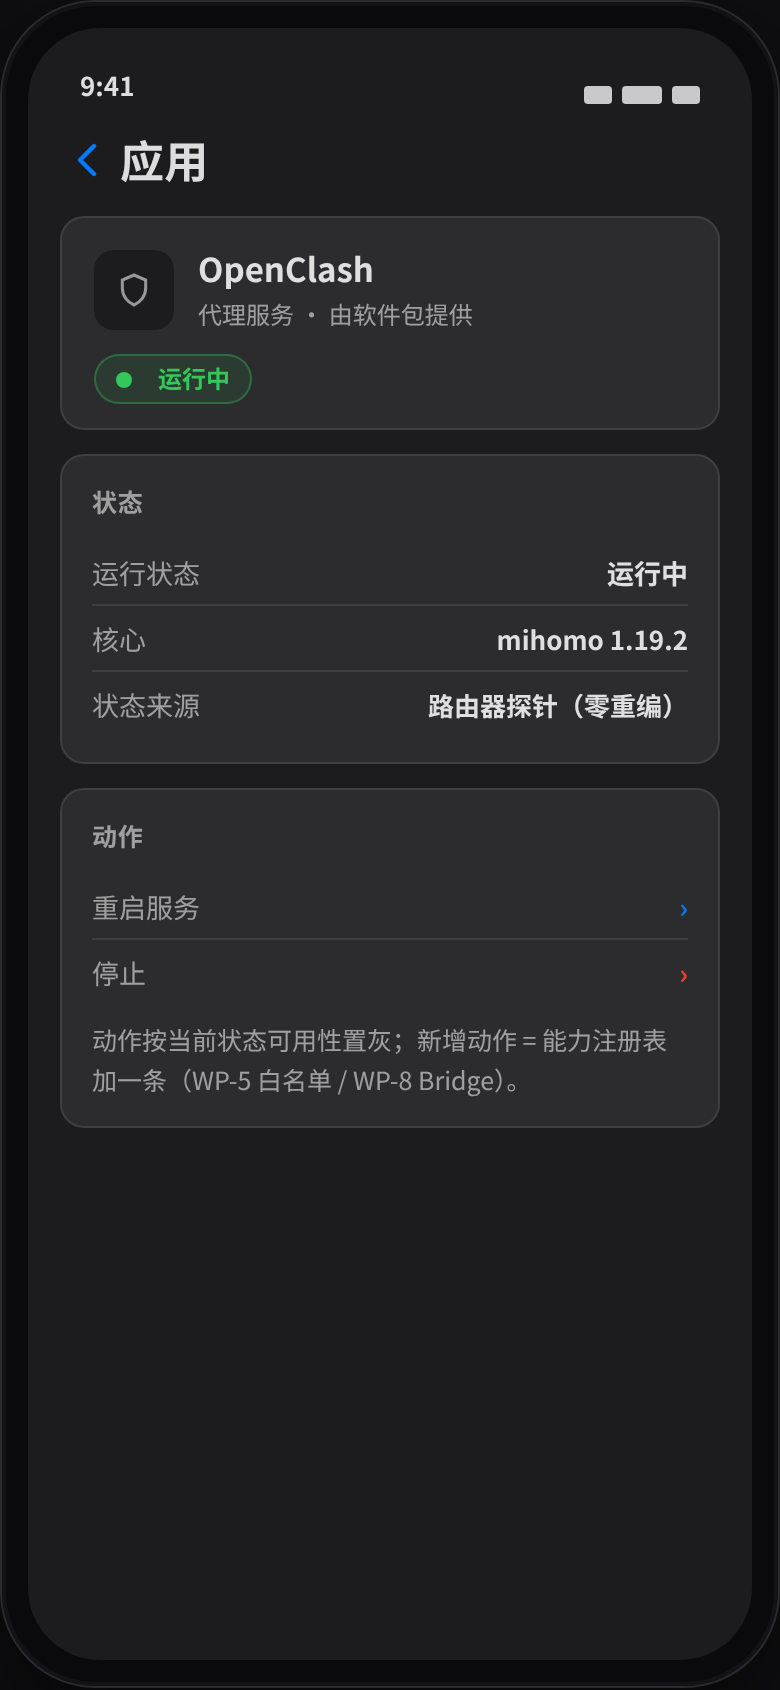
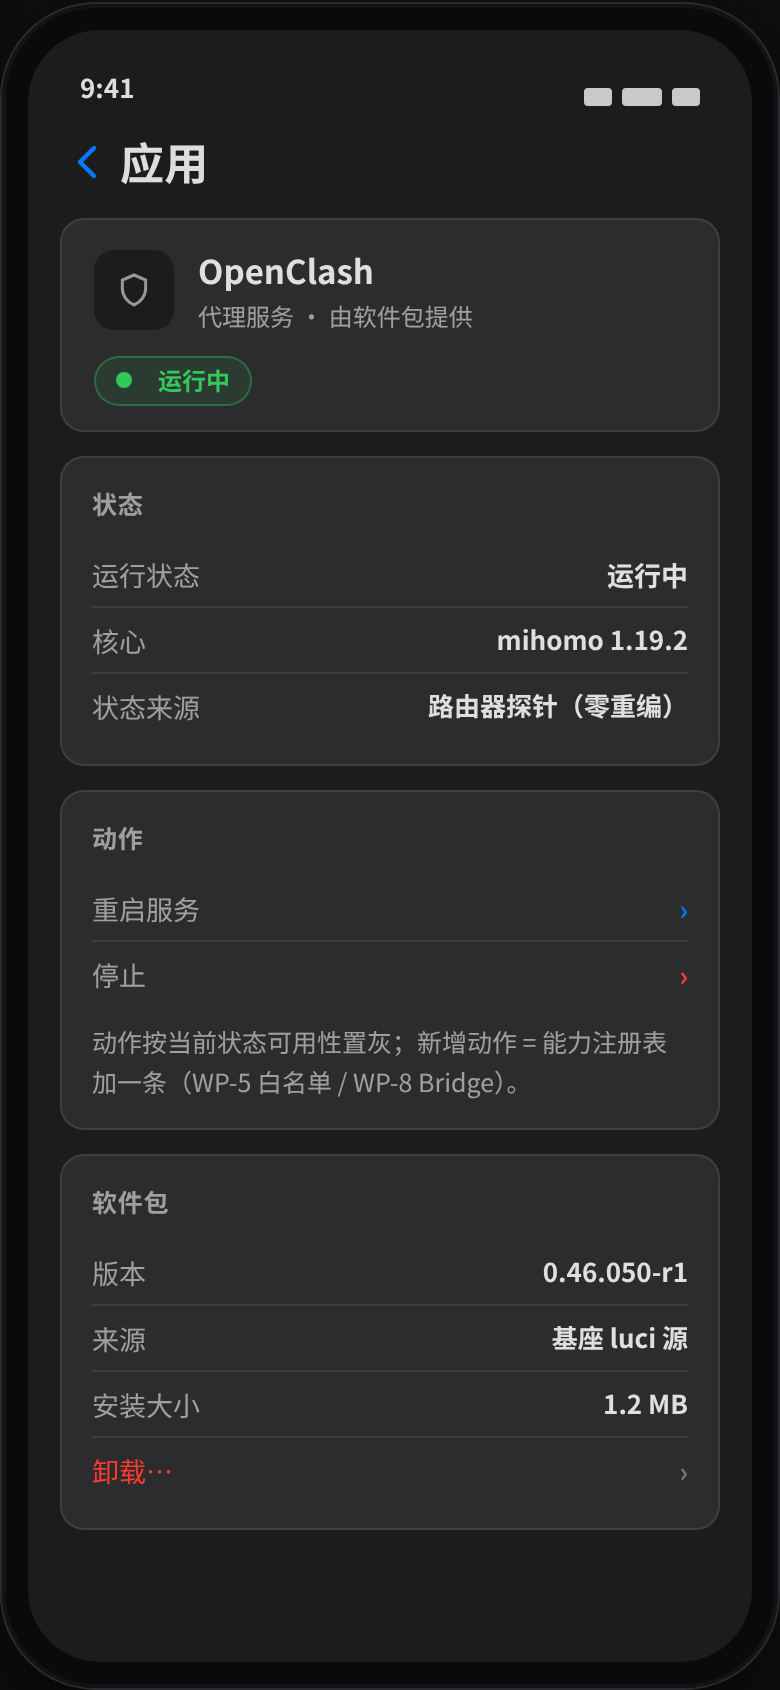
WP-6: 应用 tab 细化（待确认）——⑤应用控制子段 + ⑤b软件包子段（可升级/全部升级/已安装/搜索）+ ⑪详情增软件包卡；UI-DESIGN §5 细化与 WP-5 扩展登记项

diff --git a/design/preview.html b/design/preview.html
@@ -178,12 +178,12 @@ figcaption .hint { display:block; margin-top:4px; color:#8a8a92; font-size:12.3p
 <body>
 
 <div class="pagetop">
-  <h1>QuartzWrt App · UI 预览 <span class="tag">v0.3 定案稿</span><span class="tag">评审确认版</span></h1>
+  <h1>QuartzWrt App · UI 预览 <span class="tag">v0.4</span><span class="tag">应用页细化·评审</span></h1>
   <div class="sub">
-    依据 <b>docs/UI-DESIGN.md v0.3</b>（七项已拍板）——<b>tab 结构：概览 / 网络 / 应用 / 设置</b>（设置内含「系统设置 + 应用设置」两组；
-    第 5 个 tab 位预留给后续功能，当前隐藏）。「对设备本身的控制」归系统设置，「对网络的控制」归网络页。
-    数据取自冻结契约 AGGREGATE-API v1 与 WP-5 接口面；深色为参考稿原生（WP-2 同源 token），浅色同一语义派生。
-    ⑩⑪ 为扩展机制演示屏（通用卡 / 条件卡 / 泛化行 / 动作挂靠）。
+    依据 <b>docs/UI-DESIGN.md</b>（v0.3 定案 IA + 本次应用页细化）。**应用 tab = 应用控制 + 软件包管理**两个子段：
+    「应用」列出已安装且可控制的应用（状态 · 启动/停止/重启 → 详情）；「软件包」管安装面（已安装/可升级/版本/卸载）。
+    数据来自冻结契约 AGGREGATE-API v1 与 WP-5 接口面；<b>软件包列表与升级/卸载属于写操作与新数据面——按扩展模型是加法</b>（WP-5 增读方法 + 动作 id，见各屏脚注）。
+    ⑩⑪ 为扩展机制演示屏。
   </div>
 </div>
 
@@ -397,13 +397,14 @@ figcaption .hint { display:block; margin-top:4px; color:#8a8a92; font-size:12.3p
     </figcaption>
   </figure>
 
-  <!-- ⑤ 应用 -->
+  <!-- ⑤ 应用 · 控制子段 -->
   <figure class="case">
     <div class="phone" data-mode="dark"><div class="screen">
       <div class="statusbar"><span>9:41</span><span class="icons"><i></i><i class="w2"></i><i></i></span></div>
       <div class="appbar"><h3>应用</h3><span class="r">3 个</span></div>
       <div class="content">
-        <p class="sub" style="margin: 0 2px 10px">路由器上安装的软件包（自动发现；新装应用免重启出现）。</p>
+        <div class="seg" style="margin: 0 2px 12px"><span class="on">应用</span><span>软件包</span></div>
+        <p class="sub" style="margin: 0 2px 10px">已安装且支持 App 内控制的应用；点入详情操作。</p>
         <div class="devs">
           <div class="dev">
             <div class="ico"><svg width="20" height="20" viewBox="0 0 24 24" fill="none" stroke="currentColor" stroke-width="1.8" stroke-linecap="round"><path d="M12 3l7 3v5c0 4.4-3 8.4-7 10-4-1.6-7-5.6-7-10V6l7-3z"/></svg></div>
@@ -422,8 +423,8 @@ figcaption .hint { display:block; margin-top:4px; color:#8a8a92; font-size:12.3p
           </div>
         </div>
         <div class="card" style="margin-top:12px">
-          <h4>未安装</h4>
-          <p class="sub">Docker / Tailscale 等安装后将自动出现在上方列表（探针机制，零重编）。</p>
+          <h4>未安装的应用</h4>
+          <p class="sub">Docker / Tailscale 等安装后将自动出现在上方列表（探针机制）。到「软件包」子段可查看与安装。</p>
         </div>
       </div>
       <div class="tabbar">
@@ -433,8 +434,55 @@ figcaption .hint { display:block; margin-top:4px; color:#8a8a92; font-size:12.3p
         <span class="tab"><svg viewBox="0 0 24 24" fill="none" stroke="currentColor" stroke-width="1.9" stroke-linecap="round"><circle cx="12" cy="12" r="3"/><path d="M12 2v3M12 19v3M2 12h3M19 12h3M4.9 4.9l2.1 2.1M17 17l2.1 2.1M19.1 4.9L17 7M7 17l-2.1 2.1"/></svg>设置</span>
       </div>
     </div></div>
-    <figcaption><b>⑤ 应用（安装在路由器上的软件包）</b>
-      <span class="hint">列表 = 快照 services 开放映射（WP-4 探针描述文件驱动）；条目行点进「应用详情」（⑪）做状态/控制。未安装不占位；安装后自动出现。</span>
+    <figcaption><b>⑤ 应用 · 「应用」子段（控制面）</b>
+      <span class="hint">列出已安装且<u>可控制</u>的应用（数据=快照 services 开放映射；控制=WP-5 动作面 service.start/stop/restart——两者都已存在）。行 → 应用详情（⑪）。</span>
+    </figcaption>
+  </figure>
+
+  <!-- ⑤b 应用 · 软件包子段 -->
+  <figure class="case">
+    <div class="phone" data-mode="dark"><div class="screen">
+      <div class="statusbar"><span>9:41</span><span class="icons"><i></i><i class="w2"></i><i></i></span></div>
+      <div class="appbar"><h3>应用</h3><span class="r">335 个</span></div>
+      <div class="content">
+        <div class="seg" style="margin: 0 2px 12px"><span>应用</span><span class="on">软件包</span></div>
+
+        <div class="card">
+          <h4>可升级 · 3</h4>
+          <div class="row"><span class="k">quartz-daemon</span><span class="v" style="font-size:12.5px"><span class="faint mono">0.1.0-r1 →</span> 0.1.1</span></div>
+          <div class="row" style="justify-content:flex-start"><span class="k mono" style="font-size:11.5px">luci 源 · 7.1 MB</span></div>
+          <div class="row"><span class="k">luci-theme-quartz</span><span class="v" style="font-size:12.5px"><span class="faint mono">26.285 →</span> 26.287</span></div>
+          <div class="row" style="justify-content:flex-start"><span class="k mono" style="font-size:11.5px">luci 源 · 412 KB</span></div>
+          <div class="row"><span class="k">luci-app-dashboard</span><span class="v" style="font-size:12.5px"><span class="faint mono">26.285 →</span> 26.287</span></div>
+          <div class="btnrow" style="margin-top:10px">
+            <div class="btn primary" style="padding:10px 0; font-size:14px">全部升级（3）</div>
+          </div>
+          <p class="sub" style="margin-top:8px">升级经 WP-5 动作面（服务端逐包执行 + 审计）；中途断网可在「操作记录」查看结果。</p>
+        </div>
+
+        <div class="card">
+          <h4>已安装</h4>
+          <div class="row"><span class="k">quartz-daemon</span><span class="v mono" style="font-size:12.5px">0.1.0-r1 · 7.1 MB</span></div>
+          <div class="row"><span class="k">luci-theme-quartz</span><span class="v mono" style="font-size:12.5px">26.285 · 412 KB</span></div>
+          <div class="row"><span class="k">luci-app-openclash</span><span class="v mono" style="font-size:12.5px">0.46.050 · 1.2 MB</span></div>
+          <div class="row"><span class="k">dnsmasq</span><span class="v mono" style="font-size:12.5px">2.91 · 320 KB</span></div>
+          <div class="allrow" style="border-top:1px solid var(--border)"><span>全部软件包（335）· 搜索</span><span>›</span></div>
+        </div>
+
+        <div class="card">
+          <h4>安装新软件包</h4>
+          <p class="sub">浏览可用软件源、安装新包（需要 WP-5 扩展读方法 + packages.install 动作——见脚注；v1 先做「已安装/升级」闭环）。</p>
+        </div>
+      </div>
+      <div class="tabbar">
+        <span class="tab"><svg viewBox="0 0 24 24" fill="none" stroke="currentColor" stroke-width="1.9" stroke-linecap="round"><path d="M3 12h4l2.5-6 4 12L16 12h5"/></svg>概览</span>
+        <span class="tab"><svg viewBox="0 0 24 24" fill="none" stroke="currentColor" stroke-width="1.9" stroke-linecap="round"><circle cx="12" cy="12" r="9"/><path d="M3 12h18"/><path d="M12 3c2.8 2.6 4 5.6 4 9s-1.2 6.4-4 9c-2.8-2.6-4-5.6-4-9s1.2-6.4 4-9Z"/></svg>网络</span>
+        <span class="tab on"><svg viewBox="0 0 24 24" fill="none" stroke="currentColor" stroke-width="1.9" stroke-linecap="round"><rect x="3.5" y="3.5" width="7" height="7" rx="1.6"/><rect x="13.5" y="3.5" width="7" height="7" rx="1.6"/><rect x="3.5" y="13.5" width="7" height="7" rx="1.6"/><rect x="13.5" y="13.5" width="7" height="7" rx="1.6"/></svg>应用</span>
+        <span class="tab"><svg viewBox="0 0 24 24" fill="none" stroke="currentColor" stroke-width="1.9" stroke-linecap="round"><circle cx="12" cy="12" r="3"/><path d="M12 2v3M12 19v3M2 12h3M19 12h3M4.9 4.9l2.1 2.1M17 17l2.1 2.1M19.1 4.9L17 7M7 17l-2.1 2.1"/></svg>设置</span>
+      </div>
+    </div></div>
+    <figcaption><b>⑤b 应用 · 「软件包」子段（管理面）</b>
+      <span class="hint"><b>需 WP-5 扩展（加法，不推翻现有结构）</b>：①读方法 <code>packages</code>（列表/版本/可升级，分页——避免塞进 32KB 快照）；②动作 id <code>packages.upgrade</code>/<code>packages.refresh</code>（<code>action</code> 方法已通用，只是白名单加条目）；③卸载/安装=危险动作+确认层（安装浏览可后置）。数据源=路由器 apk 体系（LuCI 软件包页同源）。</span>
     </figcaption>
   </figure>
 
@@ -668,10 +716,17 @@ figcaption .hint { display:block; margin-top:4px; color:#8a8a92; font-size:12.3p
           <div class="row"><span class="k">停止</span><span class="v" style="color:var(--err)">›</span></div>
           <p class="sub" style="margin-top:8px">动作按当前状态可用性置灰；新增动作 = 能力注册表加一条（WP-5 白名单 / WP-8 Bridge）。</p>
         </div>
+        <div class="card">
+          <h4>软件包</h4>
+          <div class="row"><span class="k">版本</span><span class="v mono" style="font-size:13px">0.46.050-r1</span></div>
+          <div class="row"><span class="k">来源</span><span class="v" style="font-size:13px">基座 luci 源</span></div>
+          <div class="row"><span class="k">安装大小</span><span class="v mono" style="font-size:13px">1.2 MB</span></div>
+          <div class="row"><span class="k" style="color:var(--err)">卸载…</span><span class="v faint">›</span></div>
+        </div>
       </div>
     </div></div>
-    <figcaption><b>⑪ 应用详情（扩展挂靠点）</b>
-      <span class="hint">应用列表行 → 详情页（go_router 路由，页面模块化）；状态字段来自快照 services 开放映射；动作来自能力注册表——新增插件/动作不改页面结构。</span>
+    <figcaption><b>⑪ 应用详情（控制面 + 安装面汇合点）</b>
+      <span class="hint">应用列表行 → 详情页；状态来自快照 services 开放映射，控制来自能力注册表（WP-5 动作面），包信息与卸载来自软件包读/写面——新旧两面在同一页汇合，新增插件/动作不改页面结构。</span>
     </figcaption>
   </figure>
 

diff --git a/design/shot.py b/design/shot.py
@@ -15,15 +15,16 @@ OUT = ROOT / "design" / "shots"
 OUT.mkdir(parents=True, exist_ok=True)
 
 CASES = {
-    "overview-dark": 2,     # 序号（从 0 起）：③ 概览
-    "pairing-dark": 1,      # ② 配对
-    "network-dark": 3,      # ④ 网络
-    "apps-dark": 4,         # ⑤ 应用
-    "settings-dark": 5,     # ⑥ 设置（系统设置+应用设置）
-    "light-overview": 7,    # ⑧ 浅色概览
-    "degraded-dark": 8,     # ⑨ 降级态
-    "extended-overview": 9, # ⑩ 扩展示例（通用卡+Docker 条件卡+泛化行）
-    "service-detail": 10,   # ⑪ 应用详情
+    "overview-dark": 2,        # 序号（从 0 起）：③ 概览
+    "pairing-dark": 1,         # ② 配对
+    "network-dark": 3,         # ④ 网络
+    "apps-dark": 4,            # ⑤ 应用·控制子段
+    "apps-packages-dark": 5,   # ⑤b 应用·软件包子段
+    "settings-dark": 6,        # ⑥ 设置（系统设置+应用设置）
+    "light-overview": 8,       # ⑧ 浅色概览
+    "degraded-dark": 9,        # ⑨ 降级态
+    "extended-overview": 10,   # ⑩ 扩展示例
+    "service-detail": 11,      # ⑪ 应用详情
 }
 
 

diff --git a/docs/UI-DESIGN.md b/docs/UI-DESIGN.md
@@ -22,7 +22,8 @@
 | ② | 配对 sheet | 指纹（SHA-256 分组）+ 固件版本 + 管理密码一次输入；TOFU 信任模型（WP-5 §6.2） |
 | ③ | 概览 | hero + 系统 / 网络·WAN（sparkline）/ 上网设备摘要 / 应用摘要 四卡 |
 | ④ | **网络** | WAN 网络管理卡 + 无线卡（信道/客户端数/噪声）+ 上网设备表（→ 全部）+ **网络服务控制**（dnsmasq 重启；WAN 重连等留扩展位） |
-| ⑤ | **应用** | 路由器上安装的软件包列表（快照 services 开放映射）；行 → 应用详情；未安装不占位，安装后自动出现 |
+| ⑤a | **应用 · 「应用」子段** | 已安装且可控制的应用（状态点 + 版本/核心）；行 → 应用详情（⑪）；未安装提示导流到软件包子段 |
+| ⑤b | **应用 · 「软件包」子段** | 可升级列表（版本 diff + 全部升级）、已安装列表（版本/大小）、全部软件包（搜索）；安装新包入口（后置） |
 | ⑥ | **设置** | 两组：**系统设置**（路由器：配对信息/指纹/已配对设备/添加；设备控制：重启路由器、重启服务）+ **应用设置**（外观/语言/关于） |
 | ⑦ | 危险确认 | 底部确认层 + 影响说明；红字弱底按钮（不做全红实心） |
 | ⑧ | 浅色模 | 同结构派生（非另做一套） |
@@ -80,7 +81,20 @@
 2. **新插件（模式 B）**：WP-8 `quartz-ddns-bridge` → 探针描述文件 → `services.ddns` 出现 → 应用列表泛化行自动出现；WP-5 动作表加 `ddns.update` → 注册表加一条 → 应用详情出现「立即更新」。
 3. **top-level 新功能**：WP-9 OTA → 系统设置加一行「固件更新 ›」 + 1 个升级页——tab 结构不变（需要时再启用预留第 5 tab）。
 
-## 5. 定案记录（2026-10-13 用户拍板）
+## 5. 应用 tab 细化（v0.4，**待用户确认**）
+
+**定位**：应用 tab = **「应用」（控制面）+「软件包」（管理面）**两个子段；应用详情（⑪）为两面汇合点。
+
+| 面 | 内容 | 数据/动作来源 | 现状 |
+| :-- | :--- | :--- | :--- |
+| 控制面（子段「应用」） | 已安装且可控制的应用；启动/停止/重启；应用详情（状态 + 动作） | 快照 `services` 开放映射（**已有**）；WP-5 动作 `service.{start,stop,restart}`（**已有**） | 可直接实现 |
+| 管理面（子段「软件包」） | 可升级列表（版本 diff）/已安装（版本·大小）/全部（搜索）；升级（单/全部）/刷新索引/卸载 | **需 WP-5 扩展（加法）**：①读方法 `packages`（列表·版本·可升级，**分页**返回——避免塞进 32KB 快照）；②动作 id `packages.refresh` / `packages.upgrade` / `packages.remove`（通用 `action` 方法加白名单条目即可；卸载/安装=危险动作+底部确认层）；数据源=路由器 apk 体系（与 LuCI 软件包页同源） | 需 WP-5 追加（登记项，见下） |
+| 安装新包（浏览软件源） | 「安装新软件包」入口 | 需再扩展读方法（可用源/搜索）+ `packages.install` | **v1 后置**（先做「已安装/升级」闭环） |
+| 操作记录（可选） | 升级/卸载执行结果（断网中途也能查） | WP-5 审计流的小型读面 | 随 packages 扩展一起评估 |
+
+**跨 WP 登记（待确认后正式登记）**：WP-5 方法表扩展——`packages` 读方法 + `packages.*` 动作白名单条目；WP-6 侧对应 L2 注册表（动作条目）+ L3 页面模块（软件包页），**不改既有结构**（扩展模型 §4 的实例）。
+
+## 6. 定案记录（2026-10-13 用户拍板）
 
 | # | 事项 | 定案 |
 | :-- | :--- | :--- |
@@ -92,8 +106,9 @@
 | 6 | 应用图标 | 复用 WP-2 切面宝石 logo（同意，W6.6 出全套自适应图标） |
 | 7 | 扩展模型 | 四层阶梯 + 三张注册表 + tab 预置 5 位策略（同意） |
 
-## 6. 变更记录
+## 7. 变更记录
 
 *v0.1 2026-10-13 —— 首稿（讨论稿）：九屏预览 + 评审图。*
 *v0.2 2026-10-13 —— 扩展性设计（四层阶梯/注册表/tab 纪律）+ ⑩⑪ 演示屏；待拍板七项。*
-*v0.3 2026-10-13 —— **用户拍板定案（§5 七项）**：tab 结构改「概览/网络/应用/设置（系统设置+应用设置）+ 第 5 位预留」；控制按域拆分（设备→系统设置、网络→网络页）；Docker 卡保留（安装才显示）；预览重绘十一屏（④ 网络 / ⑤ 应用 / ⑥ 设置双组 / ⑦ 触发点更新 / ⑩ 增 Docker 条件卡），全部按定案结构出图。*
+*v0.3 2026-10-13 —— **用户拍板定案（§6 七项）**：tab 结构改「概览/网络/应用/设置（系统设置+应用设置）+ 第 5 位预留」；控制按域拆分（设备→系统设置、网络→网络页）；Docker 卡保留（安装才显示）；预览重绘十一屏（④ 网络 / ⑤ 应用 / ⑥ 设置双组 / ⑦ 触发点更新 / ⑩ 增 Docker 条件卡），全部按定案结构出图。*
+*v0.4 2026-10-13 —— 用户评审「应用 tab = 软件包管理 + 应用控制，希望预览具体化」：新增 **§5 应用 tab 细化**（子段「应用」控制面〔已有 API 可直接实现〕/ 子段「软件包」管理面〔需 WP-5 加读方法 `packages` + 动作 `packages.*`，v1 先做已安装/升级闭环，安装浏览后置〕）；预览重绘 ⑤「应用」子段 + 新增 ⑤b「软件包」子段（可升级/全部升级/已安装/全部搜索），⑪ 详情页增「软件包」卡（控制面与安装面汇合）。**待用户确认**。*
